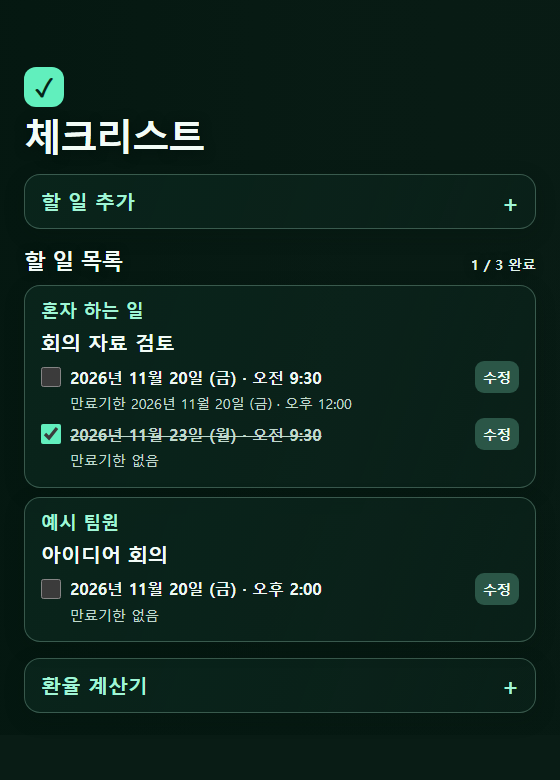
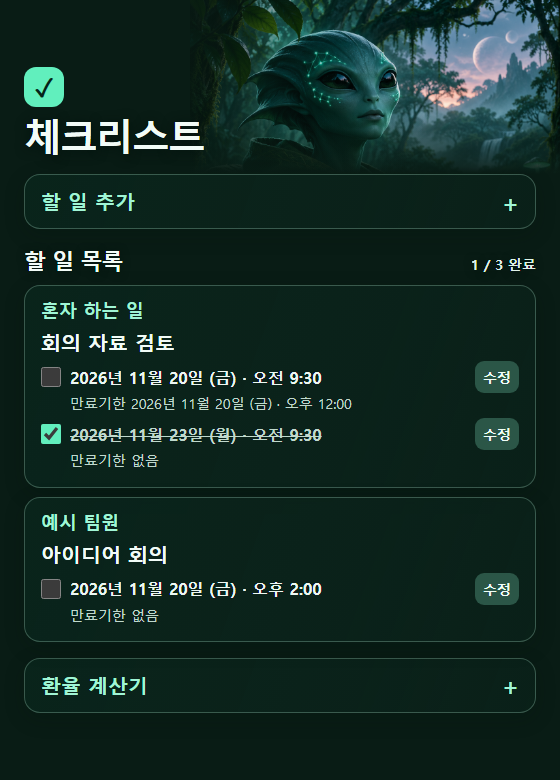
실습1: 리트냥이 체크리스트 외계인 이미지 보완

Changed region(s): [[0.3643, 0.0, 1.0, 0.2154]]

diff --git a/실습1_확장프로그램/리트냥이/popup.css b/실습1_확장프로그램/리트냥이/popup.css
@@ -16,12 +16,7 @@ body {
   width: 100%;
   min-height: 570px;
   margin: 0;
-  background:
-    linear-gradient(90deg, #041710d9, #04171047 58%, #04171021),
-    linear-gradient(0deg, #04171076, transparent 73%),
-    url("hope.webp") 26% top / cover no-repeat,
-    #091c15;
-  background-attachment: fixed;
+  background: #091c15;
 }
 
 h1, h2, h3, p, ul { margin: 0; }
@@ -31,6 +26,10 @@ button, summary { cursor: pointer; }
 
 .hero {
   min-height: 174px;
+  background:
+    linear-gradient(90deg, #091c15 0%, #091c15e6 28%, #091c1533 57%, transparent 76%),
+    linear-gradient(0deg, #091c15, transparent 34%),
+    url("alien-background.png") right top / 66% auto no-repeat;
   display: grid;
   align-content: end;
   justify-items: start;

diff --git a/실습1_확장프로그램/리트냥이/README.md b/실습1_확장프로그램/리트냥이/README.md
@@ -16,7 +16,9 @@
 
 ## 화면
 
-![가상 일정 세 건이 표시된 체크리스트 팝업](screenshot.png)
+![외계인 배경과 가상 일정 세 건이 표시된 체크리스트 팝업](screenshot.png)
+
+1.6.1에는 제출용으로 새로 만든 외계인 배경 이미지를 포함한다. 팝업 상단에 그림을 배치해 일정 목록과 제목을 읽기 쉽게 했다.
 
 ## 강사 예시에서 바꾼 점
 
